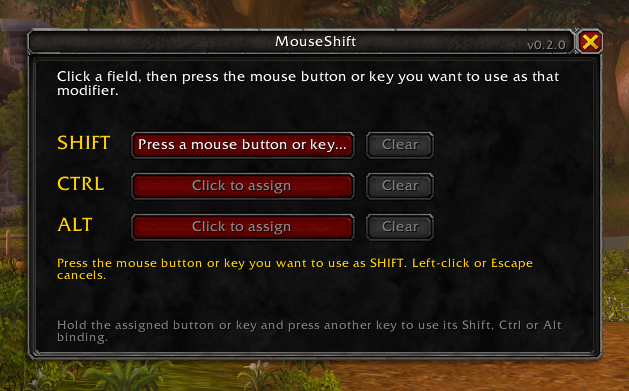
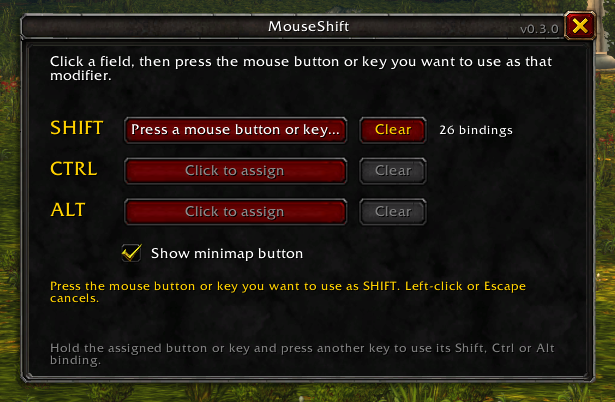
Update screenshots and describe the minimap button

diff --git a/docs/getting-started.md b/docs/getting-started.md
@@ -38,6 +38,8 @@ To assign a modifier:
 
 Repeat for **Ctrl** and **Alt** if you want them. Left-click or Escape cancels. **Clear** removes an assignment and the button gets its old keybind back.
 
+**Show minimap button** below the fields shows or hides the MouseShift button on the minimap. Click that button to open this window, drag it to move it around the minimap. If your interface gathers minimap buttons into a bar (ElvUI, EllesmereUI and others), you find MouseShift there.
+
 Next to each field you can see how many of your keybinds that layer reaches, for example *24 bindings* for Shift.
 
 ## 3. Play

diff --git a/docs/listing/curseforge-wago.md b/docs/listing/curseforge-wago.md
@@ -15,6 +15,7 @@ Hold the button under your thumb, press **2**, and the game does whatever you ha
 - Works in combat.
 - Uses your existing Shift, Ctrl and Alt keybinds. Nothing to rebind.
 - Works with the default action bars and with action bar addons such as ElvUI.
+- Open the settings from a minimap button. Interface addons that gather minimap buttons into a bar, such as ElvUI or EllesmereUI, pick it up too.
 - No changes to your interface. One small window, opened only when you need it, and a minimap button you can hide.
 - No external key remapping software needed.
 

diff --git a/README.md b/README.md
@@ -23,6 +23,7 @@ Hold the button under your thumb, press `2`, and the game does whatever you have
 - Works in combat.
 - Uses your existing SHIFT, CTRL and ALT bindings. Nothing to rebind.
 - Works with the default action bars and with action bar addons.
+- Open the settings from a minimap button. Interface addons that gather minimap buttons into a bar, such as ElvUI or EllesmereUI, pick it up too.
 - No changes to your interface. One small window, opened only when you need it, and a minimap button you can hide.
 - Retail and WoW Forever.
 
